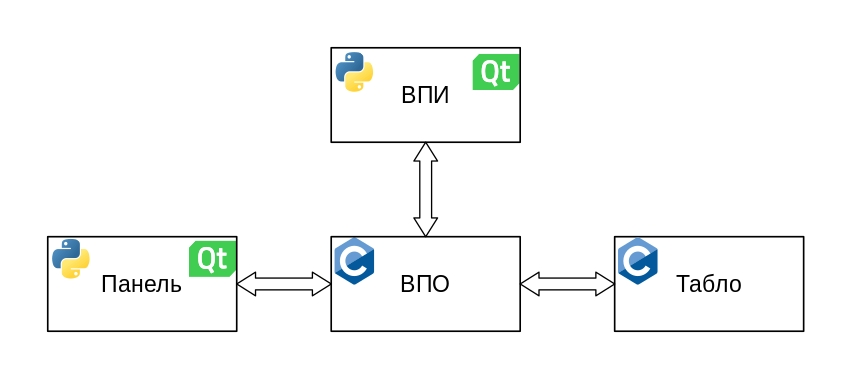
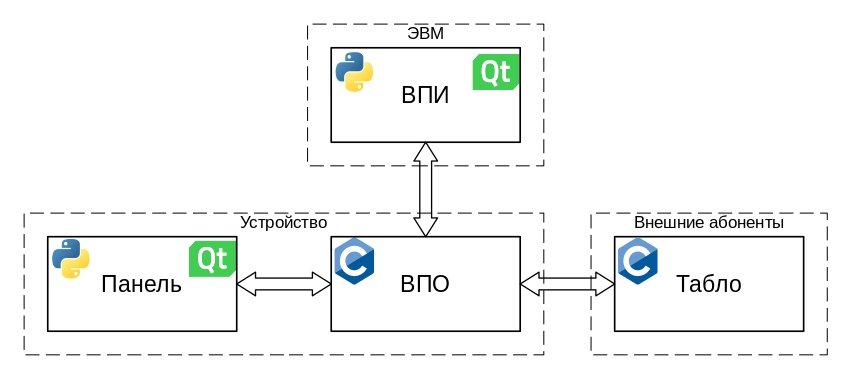
Описание ВПО и табло
- обновил Рисунок 1, добавив разделение на физические объекты
- обновил README.md: переименовал систему, переписал общую структуру, добавил описание ВПО и табло

diff --git a/README.md b/README.md
@@ -1,5 +1,5 @@
 # Device
-Управляемое устройство с распределенным управлением (УУРУ).
+Система с множественным управлением (СМУ).
 
 - [Состав устройства и приницы работы](#Info)
   - [Общая структура](#Structure)
@@ -7,27 +7,36 @@
     - [Табло](#Tablo)
     - [ВПИ](#VPI)
     - [Панель](#Panel)
-  - [Режимы работы](#Modes)
-  - [Сетевые сообщения](#Messages)
+  - [Информационный обмен](#Exchange)
 - [Требования](#Requirements)
 - [Скачивание и сборка](#Building)
 - [Использование](#Usage)
 
 <a name="Info"/><h3>Состав устройства и приницы работы</h3>
 <a name="Structure"/><h4>Общая структура</h4>
-УУРУ состоит из четрех взаимозависимых компонентов: внешнего пользовательского
-интерфеса (ВПИ), встраиваемого программного обеспечения (ВПО), передней панели,
-и табло. Связи между компонентами, а также языки программирования и библиотеки,
+СМУ состоит из трех физических объектов: устройства (осноной объект), ЭВМ и 
+внешних абонентов. Программное обеспечение СМУ состоит из четрех
+взаимозависимых компонентов: внешнего пользовательского интерфеса (ВПИ),
+встраиваемого программного обеспечения (ВПО), передней панели устройства, и
+табло. Связи между компонентами, а также языки программирования и библиотеки,
 с помощью которых они реализованы, показаны на Рисунке 1.
 <img src="images/structure.jpg"/>
 <p align="center"><em>Рисунок 1</em></p>
 Рассмотрим подробнее каждый из компонентов.
 
 <a name="VPO"/><h5>ВПО</h5>
-В разработке
+ВПО (встраиваемое прораммное обеспечение) - основной компонент встраиваемой программы устройства и СМУ, является главным связующим звеном всего СМУ. К основным задачам и функциям работы ВПО можно отнести:
+1. Управление [табло](#Tablo) с помощью сетевых интерфейсов.
+2. Обеспечение связи с передней [панелью](#Panel) устройства.
+3. Сетевое взаимодействие с [ВПИ](#VPI).
+4. Автономная работа без средств управления (ВПИ и панель).
+5. Отработка различных режимов и состояний работы устройства.
+
+Устройство, в состав которого входит ВПО, может находиться в одном из двух состояний: ОТКЛ/ВКЛ (отключено/включено). В состоянии ОТКЛ ВПО никак не взаимодействует с другими компонентами, за исключением отработки команды "Включить" от ВПИ или передней панели. В состоянии ВКЛ ВПО выполняет свои целевые функции в полном объеме.  
+А также в одном из следующих режимов: ЛУ/ВУ (локальное управление/внешнее управление). В состоянии ЛУ ВПО отрабатывает команды, полученные от передней панели устройства, и игнорирует команды, пришедшие от ВПИ. В состоянии ВУ ВПО отрабатывает команды, полученные от ВПИ, и игнорирует команды, пришедшие от панели. Нахождение устройства в состоянии ЛУ/ВУ регулируется переключателем на передней панели.
 
 <a name="Tablo"/><h5>Табло</h5>
-В разработке
+Табло - группа из 8 индикационных устройств, являющихся внешними абонентами по отношению к остальной части СМУ. Каждое табло находится в одном из двух состояний: ОТКЛ (отключено) или ВКЛ (включено), а также в одном или комбинации из следующих режимов: RED, YELLOW, GREEN. Табло находится в состоянии включено, если на него подается питание от ВПО (реализуется в виде отправки сетевого сообщения с соответствующим признаком раз в 100 мс). Табло находится в определенном режиме(-ах), если при получении от ВПО указан соответствующий режим(-ы).
 
 <a name="VPI"/><h5>ВПИ</h5>
 В разработке
@@ -35,10 +44,7 @@
 <a name="Panel"/><h5>Панель</h5>
 В разработке
 
-<a name="Modes"/><h4>Режимы работы</h4>
-В разработке
-
-<a name="Messages"/><h4>Сетевые сообщения</h4>
+<a name="Exchange"/><h4>Информационный обмен</h4>
 В разработке
 
 <a name="Requirements"/><h3>Требования</h3>
